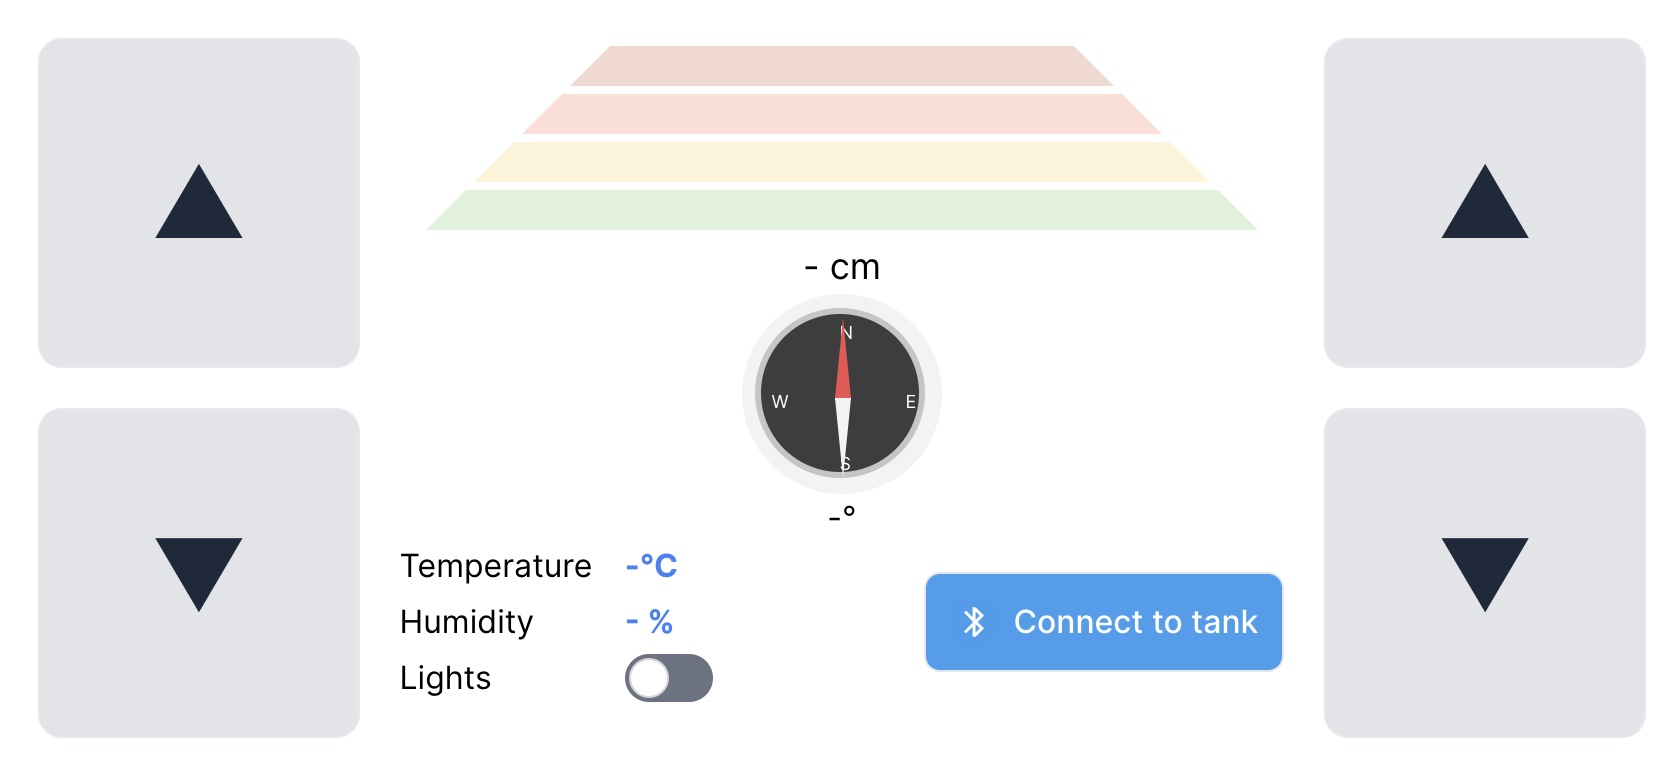
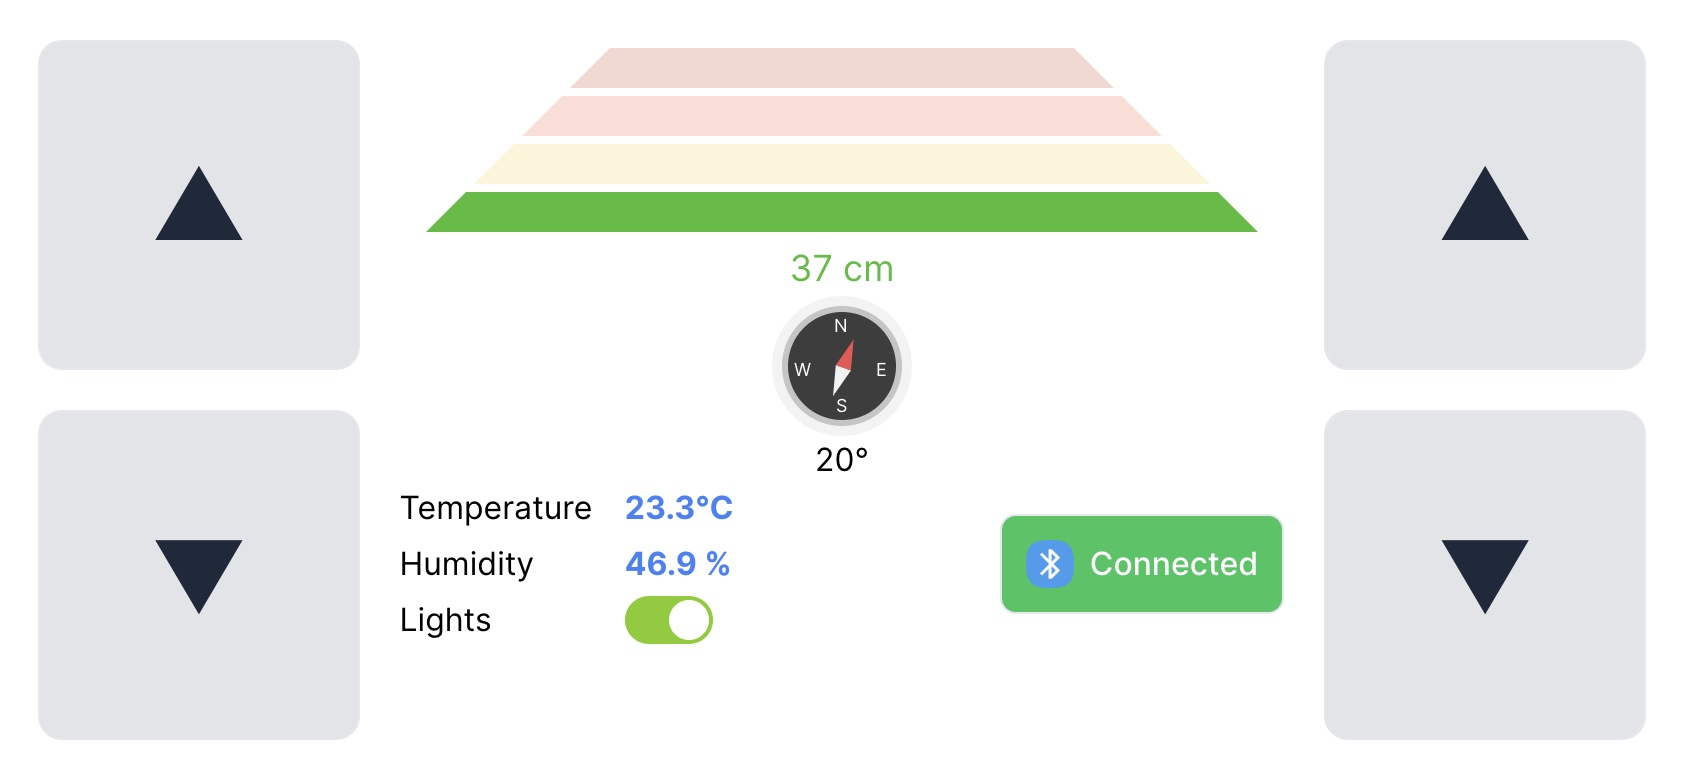
feat: disconnect bluetooth

diff --git a/src/components/Compass/styles.css b/src/components/Compass/styles.css
@@ -1,6 +1,6 @@
 .compass {
-  width: 100px;
-  height: 100px;
+  width: 70px;
+  height: 70px;
   background-color: #f3f3f3;
   border-radius: 100%;
   position: relative;
@@ -8,20 +8,24 @@
 }
 
 .compass-inner {
-  width: 85px;
-  height: 85px;
+  width: 60px;
+  height: 60px;
   background-color: #3d3d3d;
   border-radius: 100%;
   position: relative;
-  left: 6.75px;
-  top: 6.75px;
+  left: 5px;
+  top: 5px;
   border: 3px solid #c5c5c5;
 }
 
 .main-arrow {
   height: 100%;
-  width: 7.5px;
-  left: 37px;
+  width: 8px;
+  left: 24px;
+  display: flex;
+  flex-direction: column;
+  align-items: center;
+  justify-content: center;
   position: relative;
   padding-top: 2px;
   box-sizing: border-box;
@@ -35,13 +39,13 @@
   height: 0;
   border-left: 4px solid transparent;
   border-right: 4px solid transparent;
-  border-bottom: 40px solid #ef5052;
+  border-bottom: 15px solid #ef5052;
   position: relative;
 }
 
 .arrow-down {
   transform: rotate(180deg);
-  border-bottom: 40px solid #f3f3f3;
+  border-bottom: 15px solid #f3f3f3;
 }
 
 .north,
@@ -53,23 +57,23 @@
   position: absolute;
 }
 .north {
-  left: 39px;
-  top: 2.5px;
+  left: 23px;
+  top: 0;
 }
 
 .east {
-  left: 72px;
-  top: 37px;
+  left: 44px;
+  top: 22px;
 }
 
 .west {
-  left: 5px;
-  top: 37px;
+  left: 3px;
+  top: 22px;
 }
 
 .south {
-  left: 39px;
-  top: 68px;
+  left: 24px;
+  top: 40px;
 }
 
 @keyframes initCompass {

diff --git a/src/App.tsx b/src/App.tsx
@@ -76,9 +76,6 @@ function App() {
     }
   }, 1000)
 
-  // TODO: handle disconnect
-  // TODO: when connected, and click on connect, disconnect
-
   const [error, setError] = useState<string>('')
 
   const tankState = useContext(TankContext)
@@ -110,7 +107,15 @@ function App() {
   }, [])
 
   const handleBluetoothConnect = async () => {
-    if (tankState.connected || tankState.isConnecting) {
+    if (tankState.isConnecting) {
+      return
+    }
+
+    if (tankState.connected) {
+      await bluetooth.disconnect()
+      tankState.setIsConnected(false)
+      tankState.setLights({ turnedOn: false })
+      tankState.setSensors({ temperature: -1, humidity: -1, compass: -1, sonar: -1 })
       return
     }
 
@@ -177,7 +182,7 @@ function App() {
             onButtonUp={() => setLeftMotorDirection(null)}
           />
         </div>
-        <div className="col-span-6 px-5">
+        <div className="col-span-6 px-5 overflow-scroll">
           <Dashboard onLightsToggle={handleLightsToggle} onBluetoothConnect={handleBluetoothConnect} error={error} />
         </div>
         <div className="col-span-2">

diff --git a/src/services/bluetooth.ts b/src/services/bluetooth.ts
@@ -45,6 +45,7 @@ class Bluetooth {
     if (this.#btDevice?.gatt) {
       await this.#btDevice.gatt.disconnect()
     }
+    this.#btDevice = null
   }
 
   send = async (data: string, delimiter = '\n') => {
